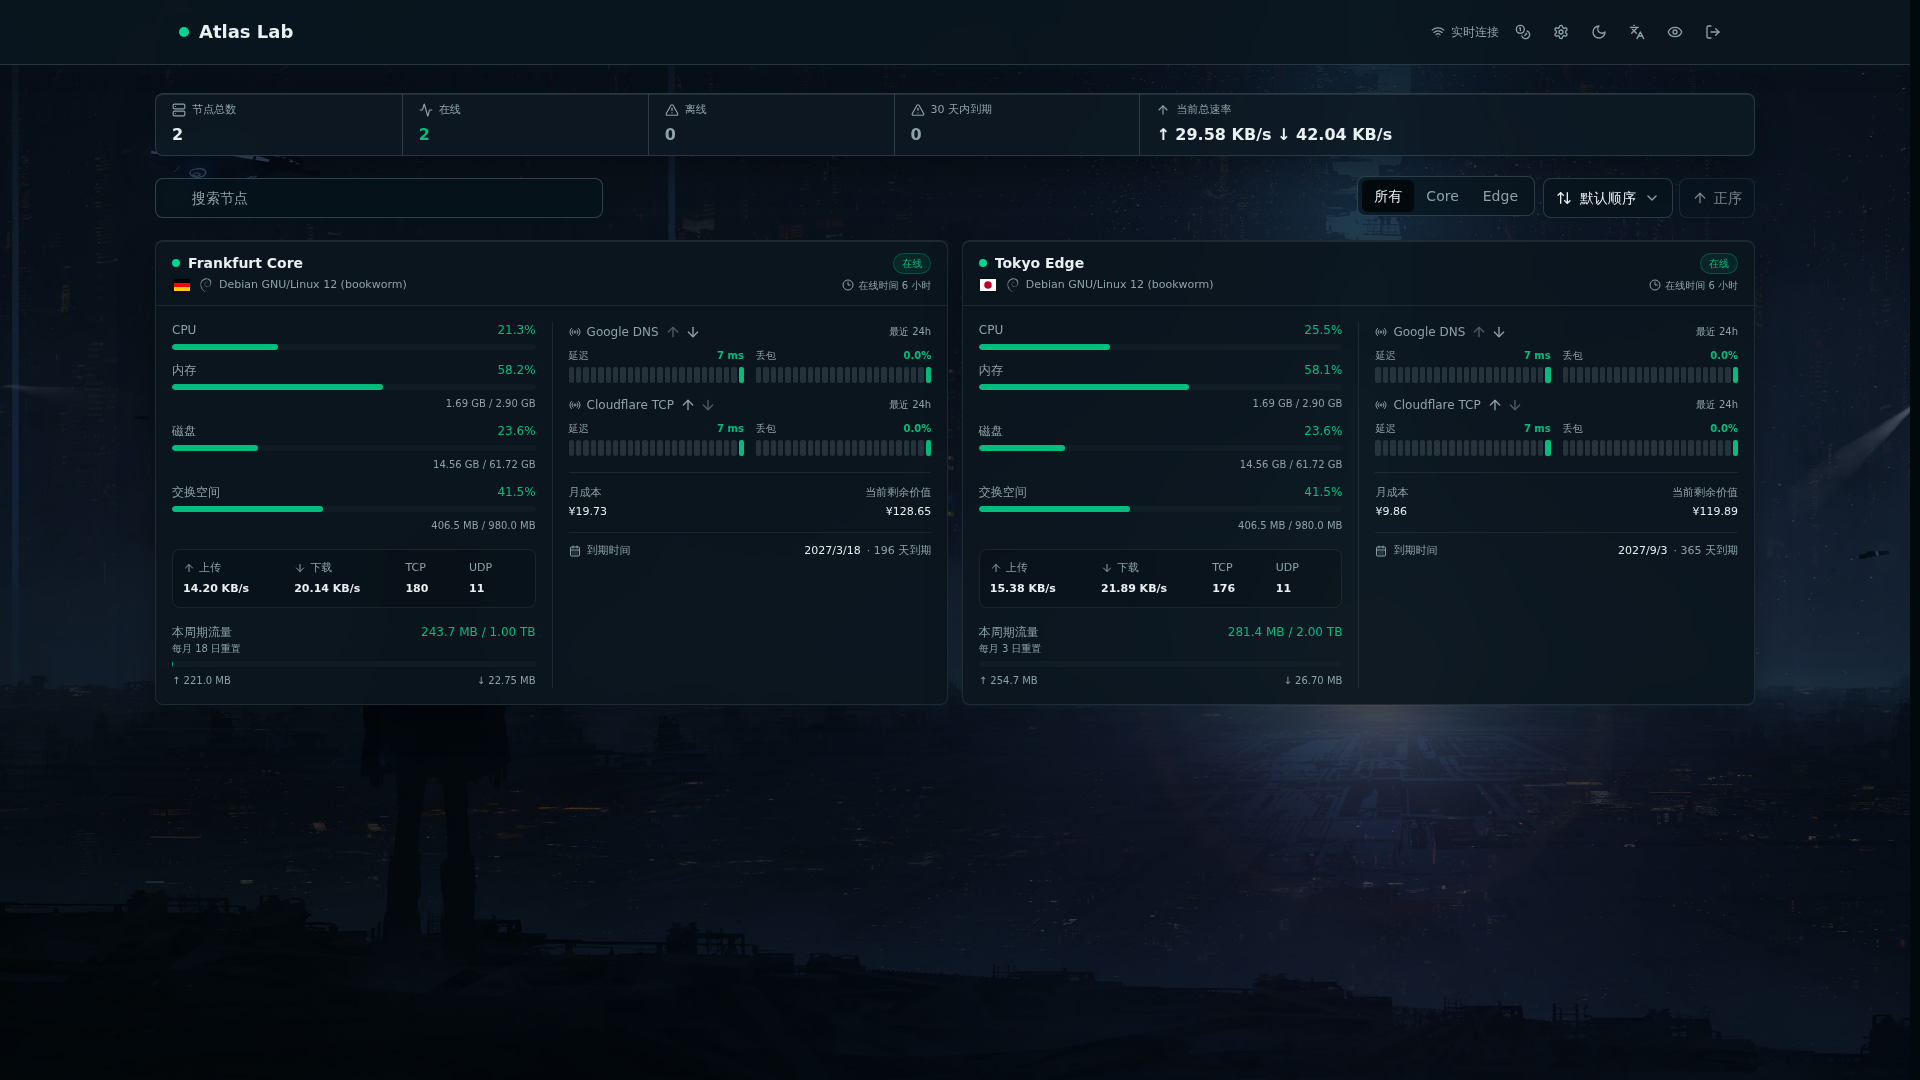
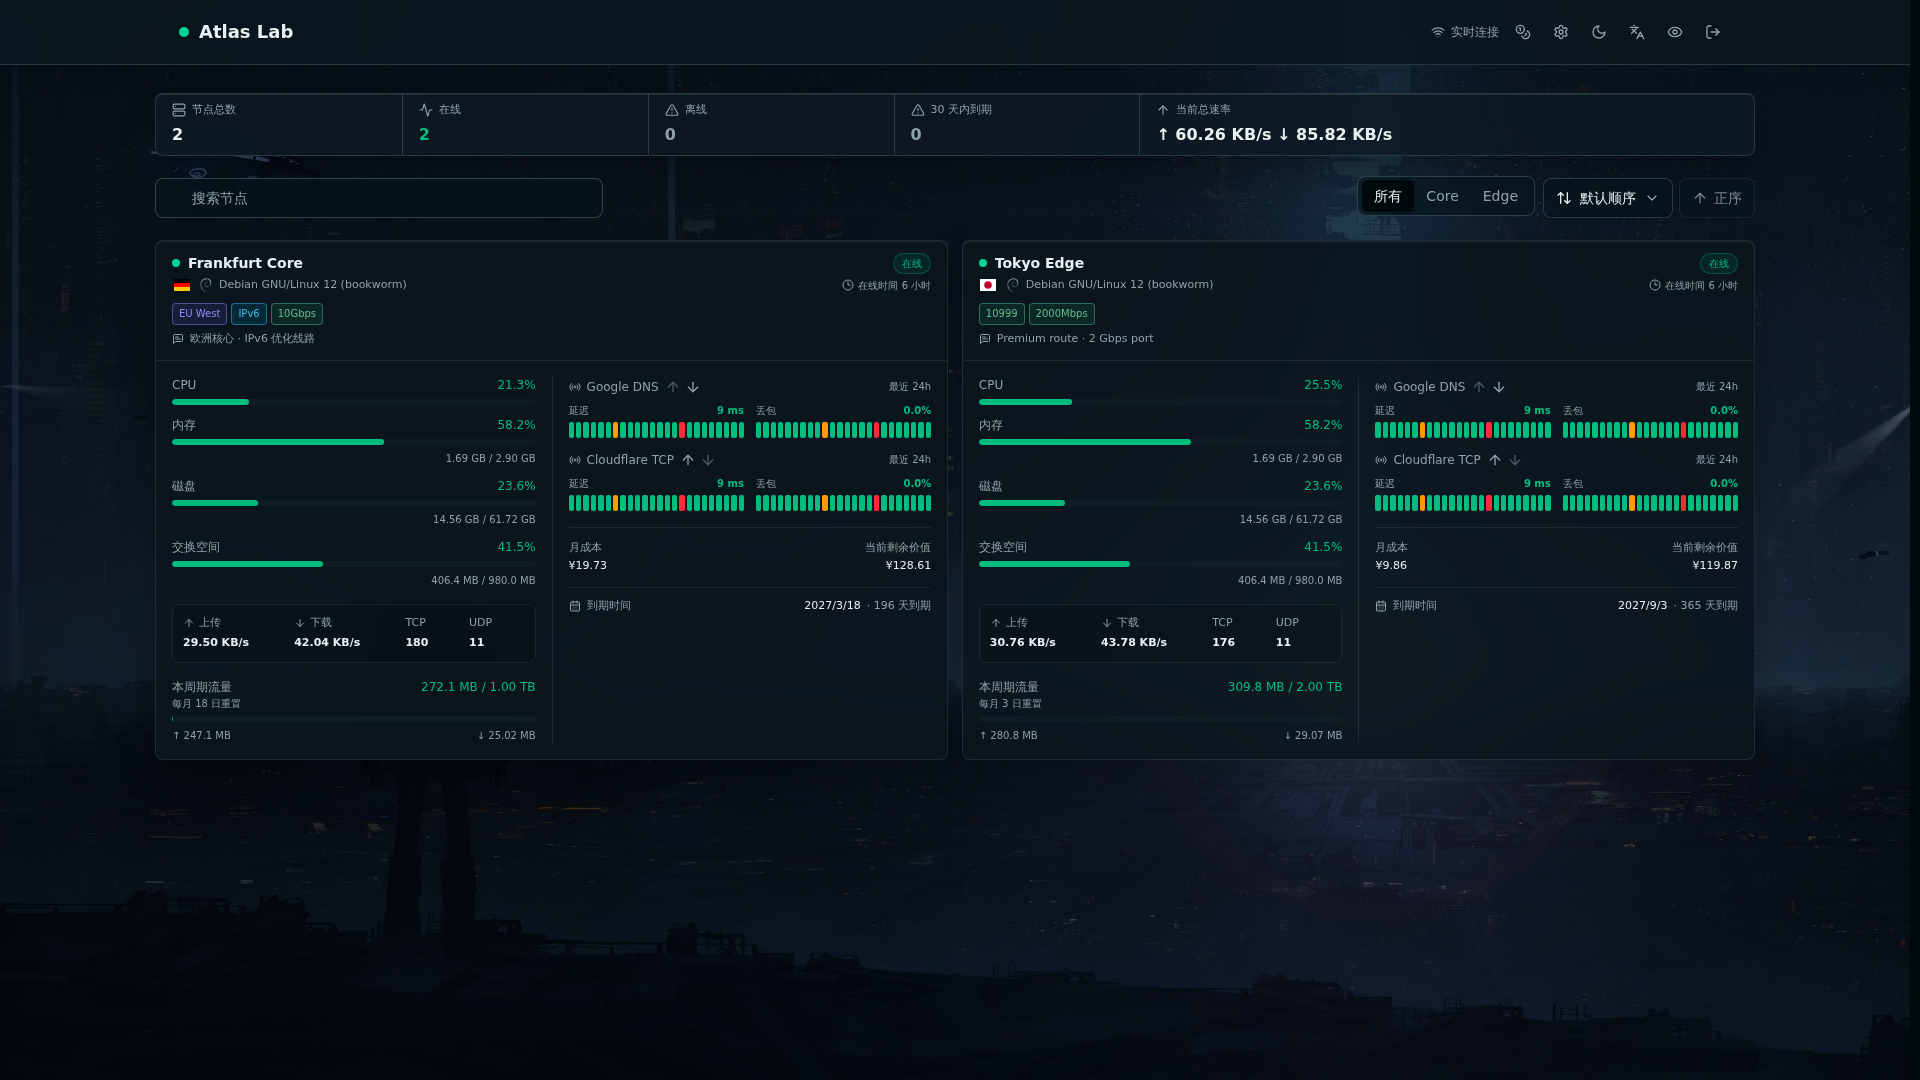
Refresh preview and bust theme image cache

diff --git a/AGENTS.md b/AGENTS.md
@@ -33,10 +33,10 @@ Completing and validating a user-requested product feature or bug fix constitute
 
 - Apply this policy to completed changes that affect the theme's runtime behavior or user interface. Do not auto-release analysis, documentation-only changes, experiments, local development setup, or reference-repository updates.
 - Run lint, type checking, tests, and a production build before publishing. Stop and report the failure instead of releasing when a required check fails.
-- Increment the patch version in `package.json`, `package-lock.json`, and `komari-theme.json`, then create a release commit and matching `vX.Y.Z` tag.
+- Increment the patch version in `package.json`, `package-lock.json`, and `komari-theme.json`. Set the packaged preview filename in `komari-theme.json` to `preview-vX.Y.Z.png` so Komari does not reuse an older cached image, then create a release commit and matching `vX.Y.Z` tag.
 - Push `main` and the tag, wait for the main CI workflow to pass, and create a non-draft, non-prerelease GitHub Release with concise release notes.
 - Wait for the release workflow to upload `komari-atlas.zip`. Download the uploaded asset, verify the packaged theme version, and calculate its SHA-256 digest.
-- Update `v1.json` with the released version, download URL, and verified digest in a separate market-metadata commit. Push it, wait for CI, and verify the remote release asset and market metadata before reporting completion.
+- Update `v1.json` with the released version, download URL, verified digest, and a preview URL pinned to the matching release tag in a separate market-metadata commit. Push it, wait for CI, and verify the remote release asset and market metadata before reporting completion.
 - Publish one patch release after the entire requested change set is complete; do not release partially implemented work.
 
 ## Configuration & Security
